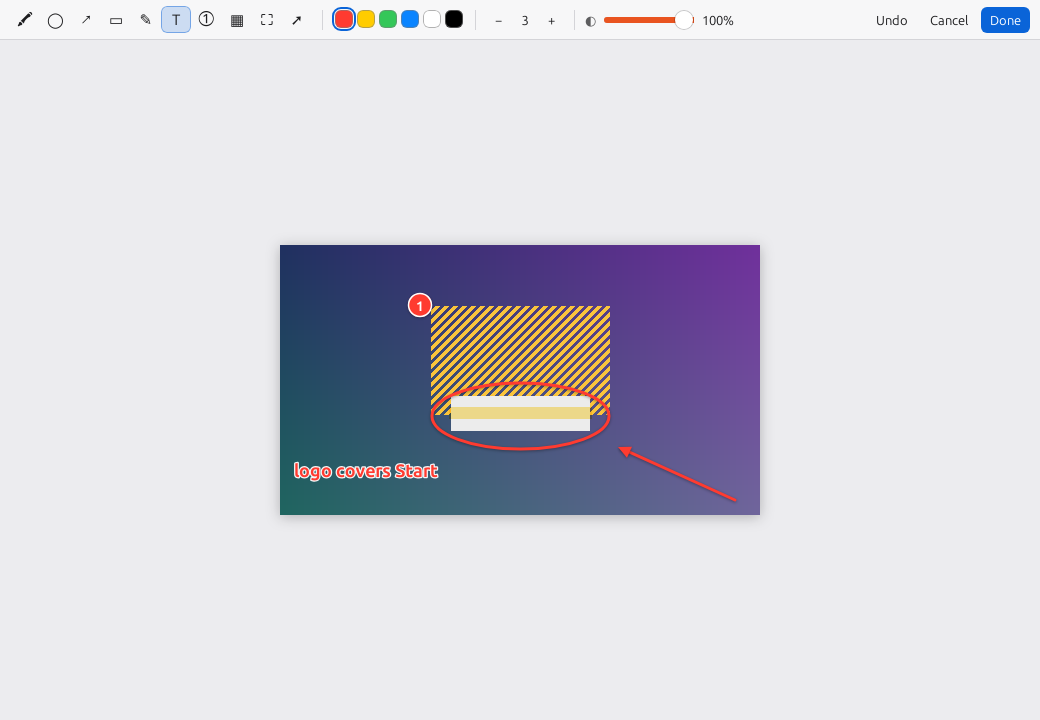
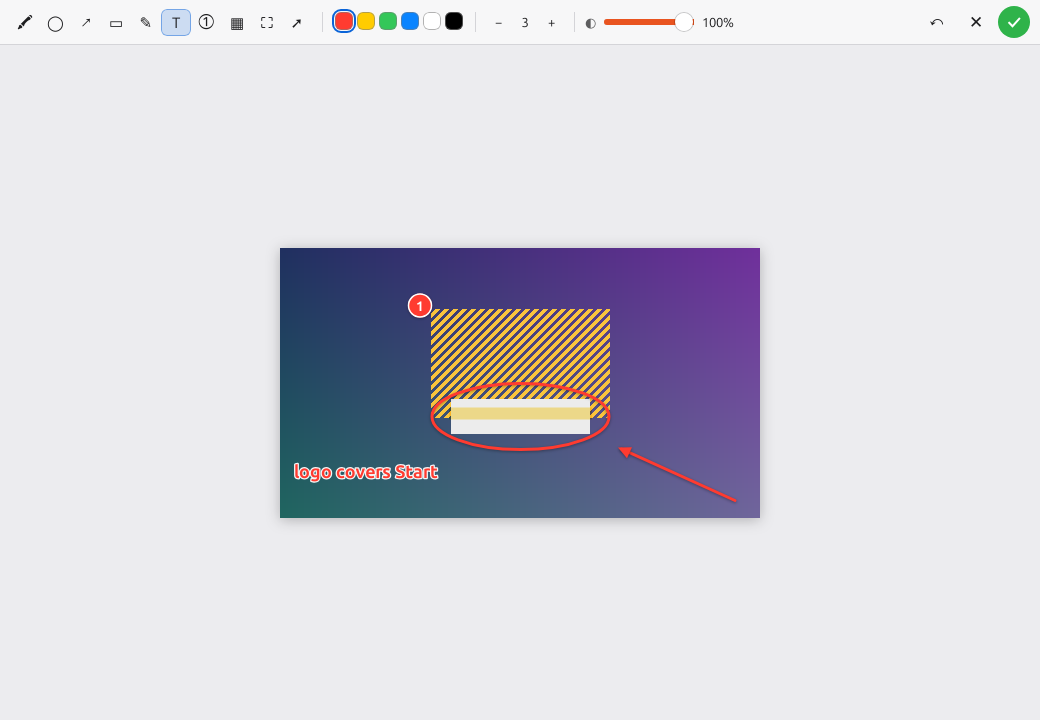
Mark-up: Done is a green tick, Cancel/No Marks a cross, Discard a bin, and they never wrap apart

diff --git a/web/src/annotate.css b/web/src/annotate.css
@@ -6,7 +6,11 @@ body { display: flex; flex-direction: column; user-select: none; -webkit-user-se
 #bar button { border: 1px solid transparent; background: transparent; color: inherit; font: inherit; border-radius: 6px; padding: 4px 8px; cursor: pointer; }
 #bar button:hover { background: rgba(127, 127, 127, 0.15); }
 #bar button.on { background: rgba(10, 100, 216, 0.18); border-color: rgba(10, 100, 216, 0.45); }
-#bar button.primary { background: var(--sel); color: #fff; }
+/* Icons that never shrink or wrap apart: on a narrow window the words were squeezed. */
+.ends { display: inline-flex; align-items: center; gap: 6px; flex: none; margin-left: auto; }
+#bar button.icon { font-size: 17px; min-width: 32px; }
+#bar button.tick { width: 32px; height: 32px; border-radius: 50%; background: #2fb34a; color: #fff; font-size: 19px; font-weight: 700; padding: 0; line-height: 1; }
+#bar button.tick:hover { background: #28a043; }
 #bar button.danger { color: #d92c20; }
 #tools button { min-width: 30px; font-size: 15px; padding: 3px 6px; }
 .sep { width: 1px; height: 20px; background: var(--line); margin: 0 6px; }

diff --git a/web/src/annotate.html b/web/src/annotate.html
@@ -16,10 +16,12 @@
   <span class="sep"></span>
   <label id="opacity-box" title="How solid marks are: drag left to see the picture through them  , and ."><span class="half">◐</span><input id="opacity" type="range" min="10" max="100" step="5" value="100"><span id="opacity-n">100%</span></label>
   <span class="grow"></span>
-  <button id="undo" type="button">Undo</button>
-  <button id="discard" type="button" class="danger" hidden>Discard</button>
-  <button id="skip" type="button">No Marks</button>
-  <button id="done" type="button" class="primary">Done</button>
+  <span class="ends">
+    <button id="undo" type="button" class="icon">↶</button>
+    <button id="discard" type="button" class="icon danger" hidden>🗑</button>
+    <button id="skip" type="button" class="icon">✕</button>
+    <button id="done" type="button" class="tick" aria-label="Done">✓</button>
+  </span>
 </div>
 <div id="stage"><canvas id="canvas"></canvas><textarea id="text" hidden rows="1" placeholder="Text"></textarea></div>
 <script src="annotate.js"></script>

diff --git a/web/src/annotate.js b/web/src/annotate.js
@@ -392,10 +392,9 @@ async function start() {
   width = M.defaultWidth(canvas.width, canvas.height);
   document.title = "Mark up — " + info.rel.split("/").pop();
   $("discard").hidden = !info.isNew;
-  $("discard").title = "Throw this screenshot away  Ctrl+Backspace";
-  $("skip").textContent = info.isNew ? "No Marks" : "Cancel";
-  $("skip").title = info.isNew ? "Keep the screenshot as it is  Esc" : "Keep the picture as it was  Esc";
-  $("done").title = "Save  Enter";
+  $("discard").title = "Discard: throw this screenshot away  Ctrl+Backspace";
+  $("skip").title = info.isNew ? "No marks: keep the screenshot as it is  Esc" : "Cancel: keep the picture as it was  Esc";
+  $("done").title = "Done: save the marks  Enter";
   $("undo").title = "Undo  Ctrl+Z";
   renderBar();
   draw();

diff --git a/README.md b/README.md
@@ -86,7 +86,7 @@ A new screenshot opens in the mark-up window; double-click any picture in a note
 | C | Crop (a click removes the crop) |
 | V | Select: click a mark to move it, recolour it, or delete it with Delete |
 
-1 to 6 choose a colour, [ and ] make lines thinner or thicker, the **opacity** slider (or , and .) makes marks see-through so the picture shows under them, Shift while dragging makes squares and circles, and snaps arrows to 45°. Ctrl+Z undoes, Ctrl+Shift+Z redoes. **Enter** (Done) saves; **Esc** keeps the picture as it was (No Marks); **Ctrl+Backspace** throws a new screenshot away (Discard). To have screenshots go straight into the note instead, turn mark-up off in Settings.
+1 to 6 choose a colour, [ and ] make lines thinner or thicker, the **opacity** slider (or , and .) makes marks see-through so the picture shows under them, Shift while dragging makes squares and circles, and snaps arrows to 45°. Ctrl+Z undoes, Ctrl+Shift+Z redoes. **Enter** or the green ✓ saves; **Esc** or ✕ keeps the picture as it was; **Ctrl+Backspace** or the bin throws a new screenshot away. To have screenshots go straight into the note instead, turn mark-up off in Settings.
 
 The untouched picture is kept beside the marked-up one (`shot-001.orig.png`, with the marks in `shot-001.marks.json`), so marks can be changed or removed later: remove every mark and the original comes back.
 
